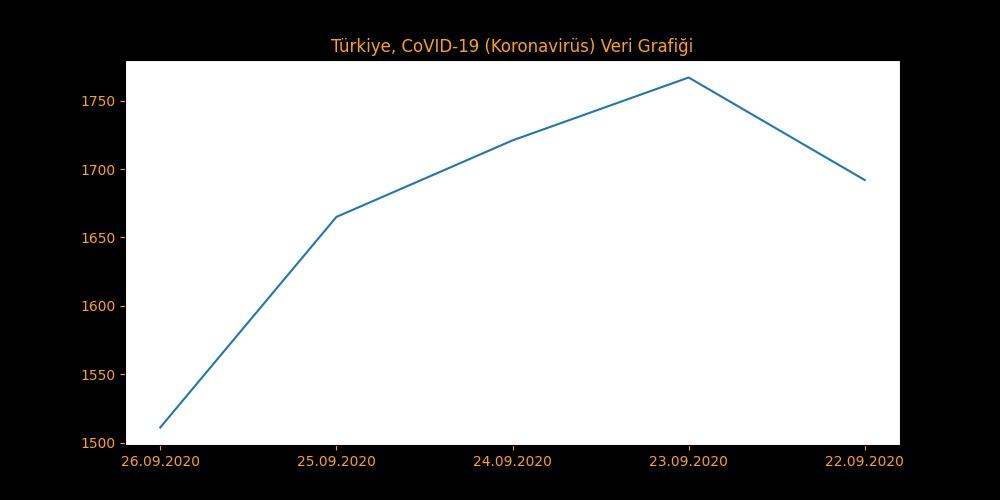
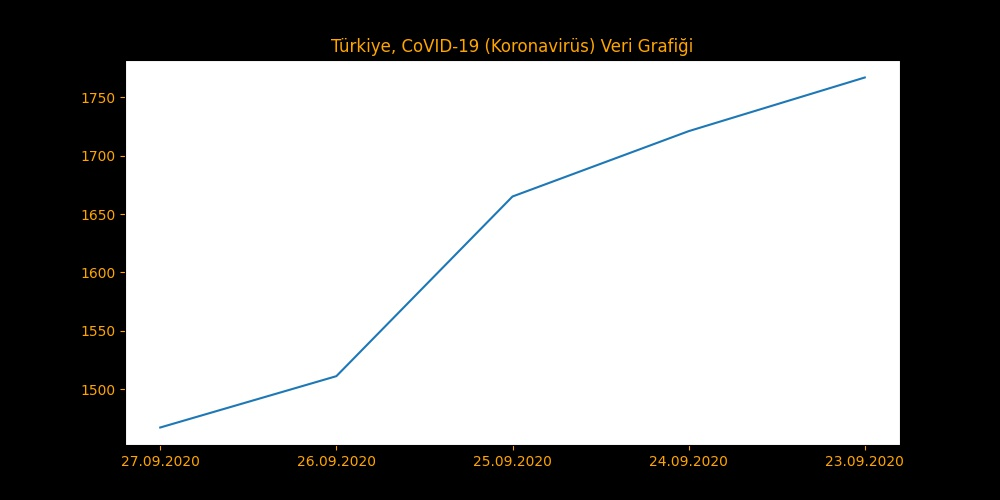
:notebook: 27.09.2002 Update

diff --git a/README.md b/README.md
@@ -8,21 +8,21 @@ Turkey's CovID-19 data from Turkey's Ministery of Health  <br>
 by [LYSEP CORP:registered:](https://lysep.com)
 
 In this we will gonna show you where is the Turkey going about [COVID-19 Pandemic (Click to read about it)](https://g.co/kgs/EJjcys) .
-Note: All the data coming from Türk Ministery of Health's public website. If datas are not up-to-date, probably this is about the [goverment's website](https://covid19.saglik.gov.tr) if our server's are not die. Okey, Let's start than! \
+Note: All the data coming from Türk Ministery of Health's public website. If datas are not up-to-date, probably this is about the [goverment's website](https://covid19.saglik.gov.tr) if our server's are not die. Okey, Let's start than!
 
 First today's datas:
-## :calendar: 26.09.2020 Corona virus Datas:
+## :calendar: 27.09.2020 Corona virus Datas:
 | Data Type         | Today's Datas      | All Time Data      |
 | :---              |    :----           |     :---           |
-| Tests             | 102,009    | 309,694    |
-| Cases             | 1,511   | 7,905   |
-| Cures             | 1,232    | 9,950,783    |
-| Deaths            | 71| 274,048|
+| Tests             | 101,119    | 311,117    |
+| Cases             | 1,467   | 7,970   |
+| Cures             | 1,116    | 10,051,012    |
+| Deaths            | 68| 275,048|
 
-:clock9: `Last Update: 27.09.2020 03:09`
+:clock9: `Last Update: 27.09.2020 21:01`
 \
 \
-There is something weird going on about our country's data. There is a little bit difference about goverment's all time data and daily datas. If we gonna add everyday's data to each other, Our calculation is **3272** less than the goverment's case calculation. It's **24** for deaths, **14202** for tests and **466** for cured person count. We don't know why our country is doing that. ARE THE DATAS WRONG??!?\
+There is something weird going on about our country's data. There is a little bit difference about goverment's all time data and daily datas. If we gonna add everyday's data to each other, Our calculation is **3316** less than the goverment's case calculation. It's **27** for deaths, **13312** for tests and **582** for cured person count. We don't know why our country is doing that. ARE THE DATAS WRONG??!?\
 Okey, let's talk about the graphs. Here is today's data is compare with yesterdays:\
 ![YESTERDAY_COMP_TODAY_EN](https://github.com/lysep-corp/COVID-19/blob/master/Graphs/YESTERDAY_COMP_TODAY_EN.jpeg?raw=true)
 

diff --git a/README_TR.md b/README_TR.md
@@ -10,19 +10,19 @@ by [LYSEP CORP:registered:](https://lysep.com)
 Burada, Türkiye'nin [COVID-19 (Koronavirüs) (Hakkında bilgi almak için tıklayın...)](https://g.co/kgs/EJjcys) pandemisi sırasındaki durumunu özetleyeceğiz.
 Not: Bütün veriler, Türkiye Sağlık Bakanlığı'ndan sağlanmaktadır. Eğer veriler güncel değilse, bu büyük ihtimal [devletin web sitesi](https://covid19.saglik.gov.tr) ile alakalıdır. Tamamdır, o zaman başlayalım!
 
-First today's datas:
-## :calendar: 26.09.2020 Corona virus Datas:
-| Data Type         | Today's Datas      | All Time Data      |
+Öncelikle bugünün verileri:
+## :calendar: 27.09.2020 Koronavirüs Verileri:
+| Veri Tipi         | Bugünün Verileri   | Toplam Veriler     |
 | :---              |    :----           |     :---           |
-| Testler           | 102,009    | 9,950,783    |
-| Vakalar           | 1,511   | 309,694    |
-| Tedaviler         | 1,232    | 274,048|
-| Vefatlar          | 71| 7,905   |
+| Testler           | 101,119    | 10,051,012    |
+| Vakalar           | 1,467   | 311,117    |
+| Tedaviler         | 1,116    | 275,048|
+| Vefatlar          | 68| 7,970   |
 
-:clock9: `Son Güncelleme: 27.09.2020 03:09`
+:clock9: `Son Güncelleme: 27.09.2020 21:01`
 \
 \
-Ülkemiz ile alakalı gönderilen verilerde bir gariplik var. Devletin verdiği toplam veriler ile günlük veriler arasında uyuşmazlık mevcut. Eğer her günün verisini birbirine eklersek, Bizim hesaplamamız vakalar için **3272** tane daha az çıkıyor. Bu, ölümler için **24** , testler için **14202** ve tedavi olanlar için **466** . Neden devletimiz böyle bir şey yapıyor anlamıyoruz. YOKSA VERİLER YANLIŞ MI??!?\
+Ülkemiz ile alakalı gönderilen verilerde bir gariplik var. Devletin verdiği toplam veriler ile günlük veriler arasında uyuşmazlık mevcut. Eğer her günün verisini birbirine eklersek, Bizim hesaplamamız vakalar için **3316** tane daha az çıkıyor. Bu, ölümler için **27** , testler için **13312** ve tedavi olanlar için **582** . Neden devletimiz böyle bir şey yapıyor anlamıyoruz. YOKSA VERİLER YANLIŞ MI??!?\
 Neyse tamam, hadi grafikler hakkında konuşalım. Dünle bu günün karşılaştırma grafiği:\
 ![alt text](https://github.com/lysep-corp/COVID-19/blob/master/Graphs/YESTERDAY_COMP_TODAY_TR.jpeg?raw=true)
 
